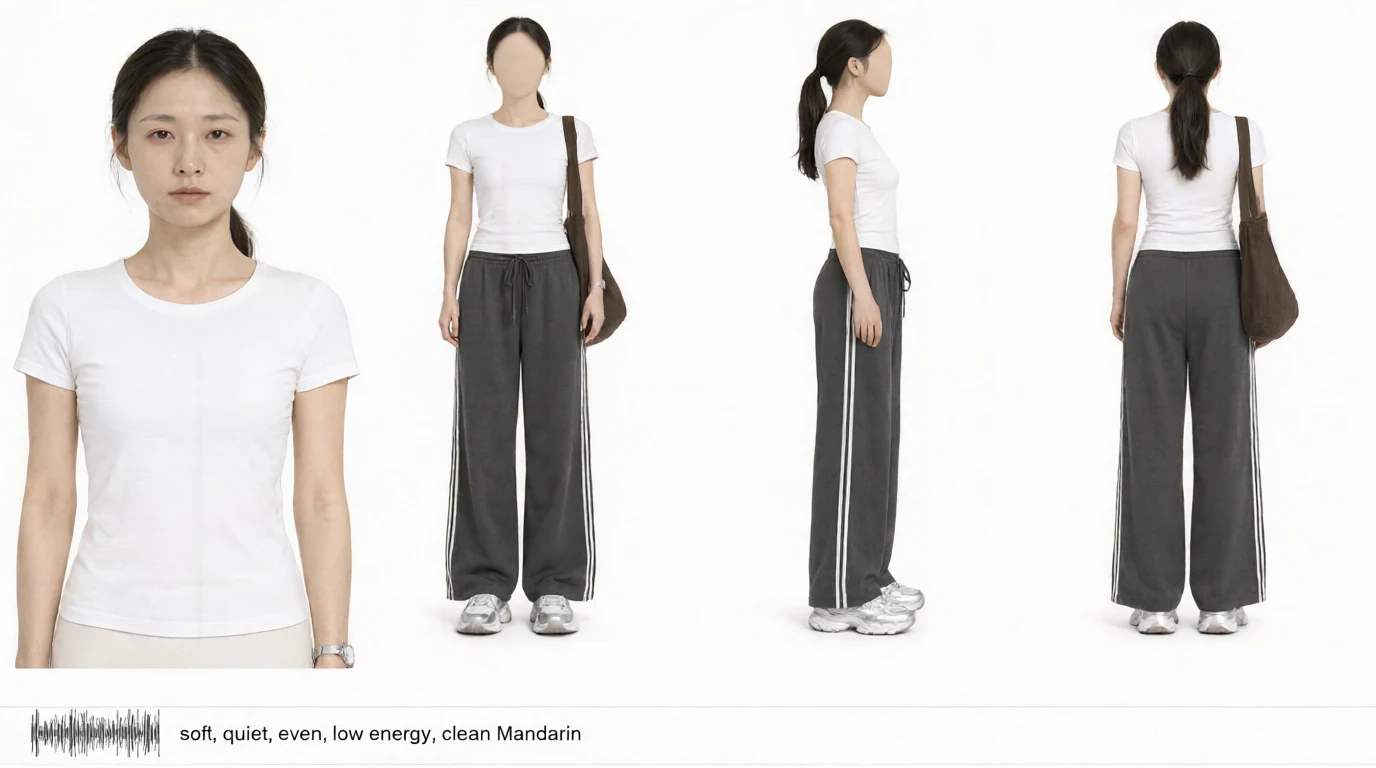
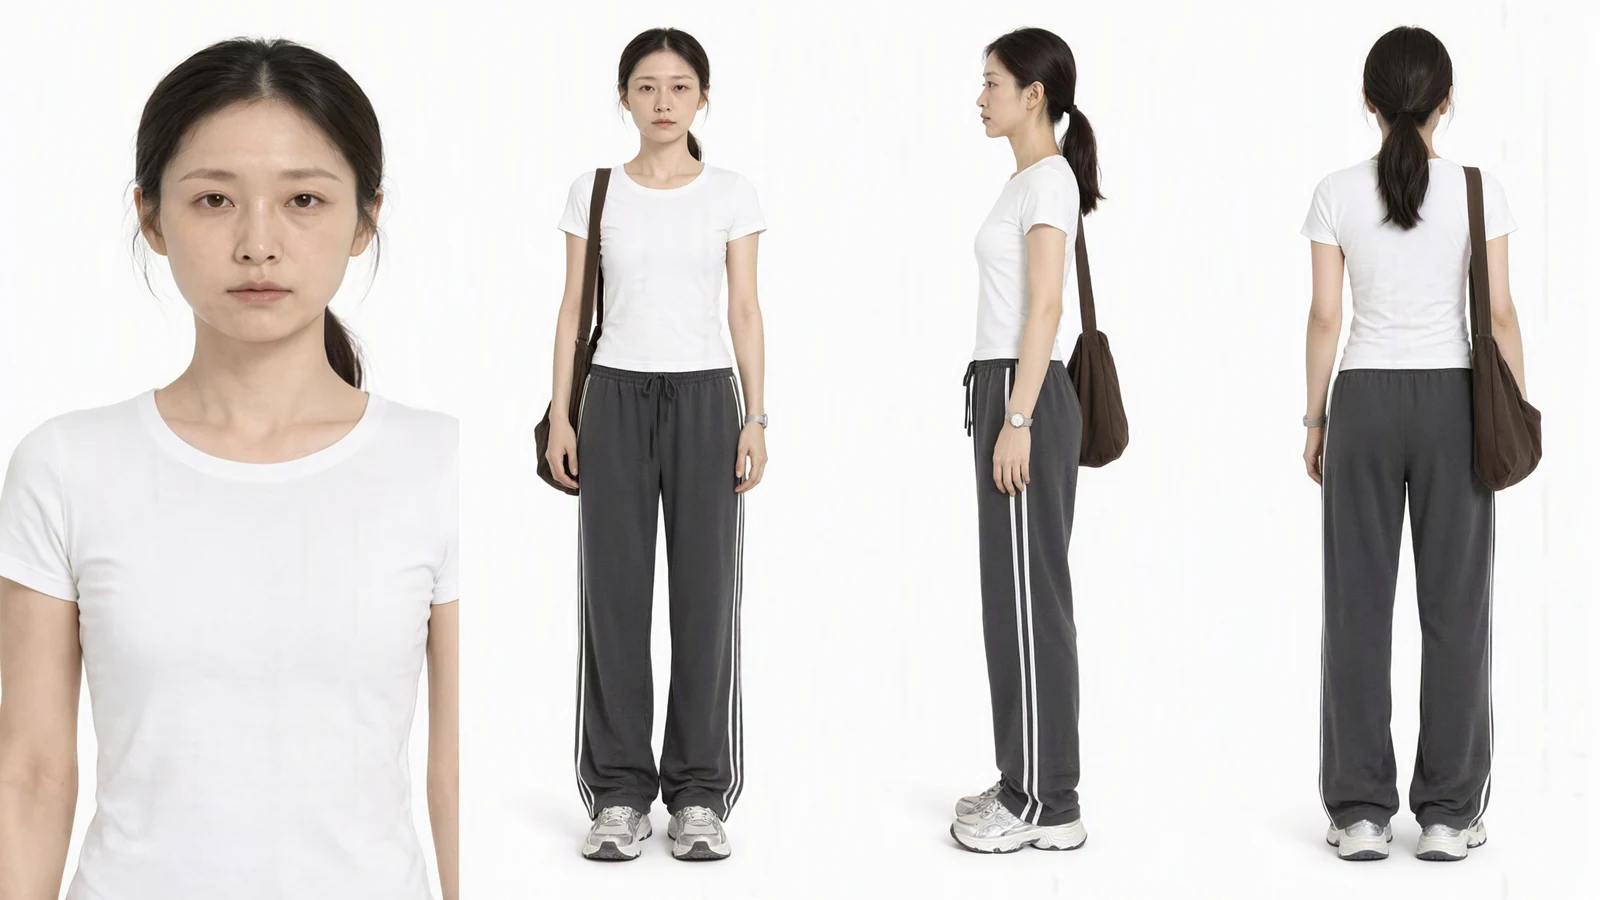
chore(v1.0.3): 审核图片与示例工作流 —— 重拍面板主图、换掉无脸/带声波条的角色图、示例工作流改为可直接跑；面板高度 928→1052 让右栏使用说明真正可见

diff --git a/web/js/qwen21_director.js b/web/js/qwen21_director.js
@@ -19,7 +19,7 @@ const DOM_WIDGET = "panel_ui";
 // 所以：内容写死 520px，节点写死 560px，两者对齐，宽度永远不变。
 const PANEL_NODE_W = 560;      // 节点初始宽度（之后可自由拖动，内容自动跟随）
 const PANEL_WIDE_W = 1240;     // wide 布局：固定宽度，不允许缩放
-const PANEL_WIDE_H = 928;      // wide 布局：固定高度，不允许缩放
+const PANEL_WIDE_H = 1052;     // wide 布局：固定高度，不允许缩放（右栏要放下 4 张卡 + 使用说明）
 const PANEL_OVERHEAD = 34;     // 节点标题栏 + widget 外边距（实测约 34px）
 
 const OPTIONAL_INPUTS = {
@@ -1822,7 +1822,7 @@ function mountPanel(node) {
     shield(host);
 
     if (wide) {
-        // 固定尺寸：关掉右下角的缩放手柄，并把节点锁到 1664×928。
+        // 固定尺寸：关掉右下角的缩放手柄，并把节点锁到 PANEL_WIDE_W×PANEL_WIDE_H。
         node._qwen21Fixed = [PANEL_WIDE_W, PANEL_WIDE_H];
         node.resizable = false;
     }
@@ -2055,7 +2055,7 @@ app.registerExtension({
             const out = onResize?.apply(this, arguments);
             // 宽度跟着节点走：内容既不溢出也不留白，拖动节点时内容同步重排。
             syncPanelWidth(this);
-            // 固定尺寸：任何缩放（拖角、菜单、其他扩展）都立刻拉回 1664×928。
+            // 固定尺寸：任何缩放（拖角、菜单、其他扩展）都立刻拉回固定尺寸。
             if (this._qwen21Fixed) {
                 const [fw, fh] = this._qwen21Fixed;
                 if (Math.abs((size?.[0] ?? 0) - fw) > 0.5 || Math.abs((size?.[1] ?? 0) - fh) > 0.5) {

diff --git a/README.md b/README.md
@@ -152,6 +152,8 @@ git clone <本仓库地址> ComfyUI_Qwen21Director
 
 打开后**第一件事**是检查「模型」区三个下拉（UNET / CLIP / VAE）指向的文件是否都存在 —— 工作流里存的是文件名，换了机器、文件名不一致时要重新选一次。
 
+工作流默认是**文生图**模式，不带任何参考图，填好提示词就能直接跑；想试参考图模式，在面板左上切到「参考图」，再上传一张图。
+
 ---
 
 ## 面板详解
